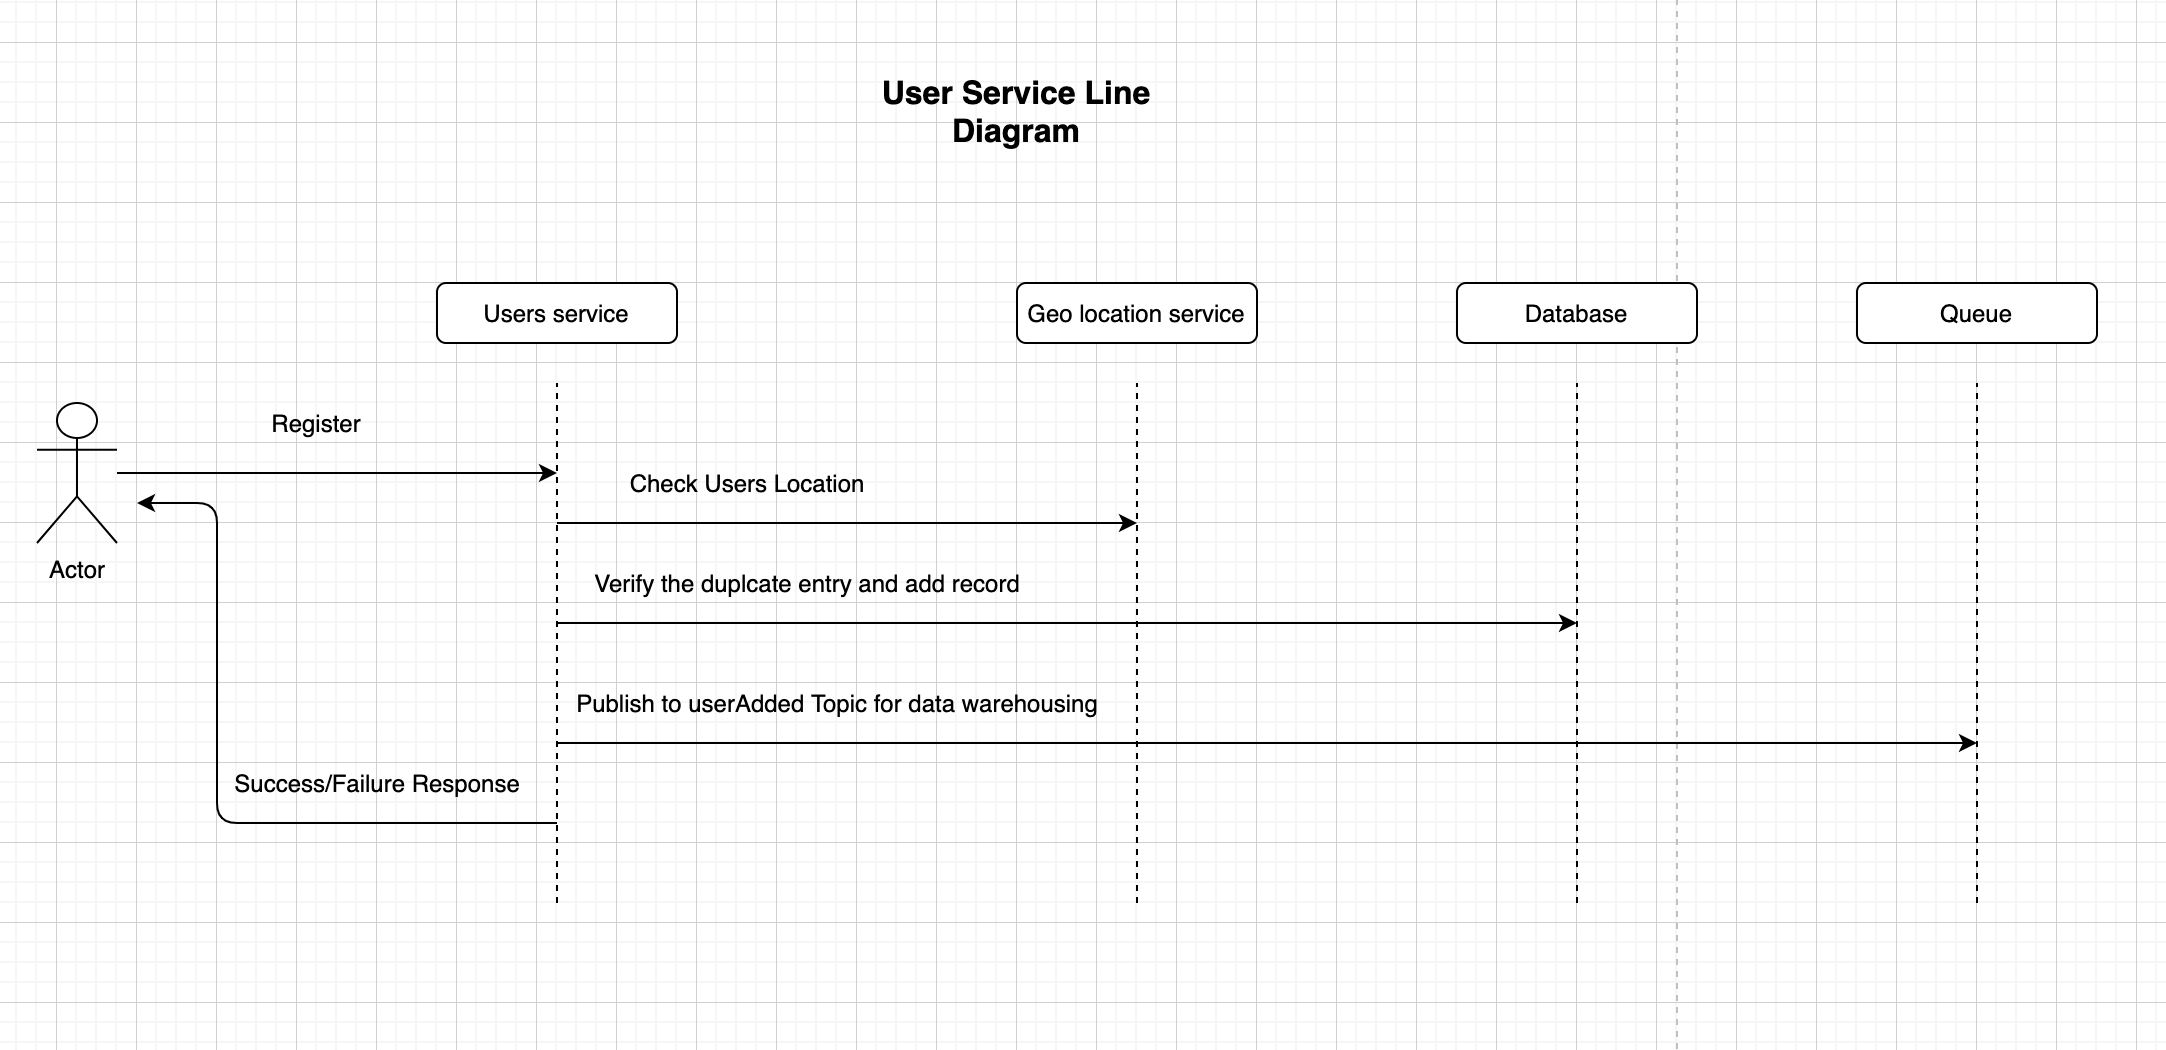
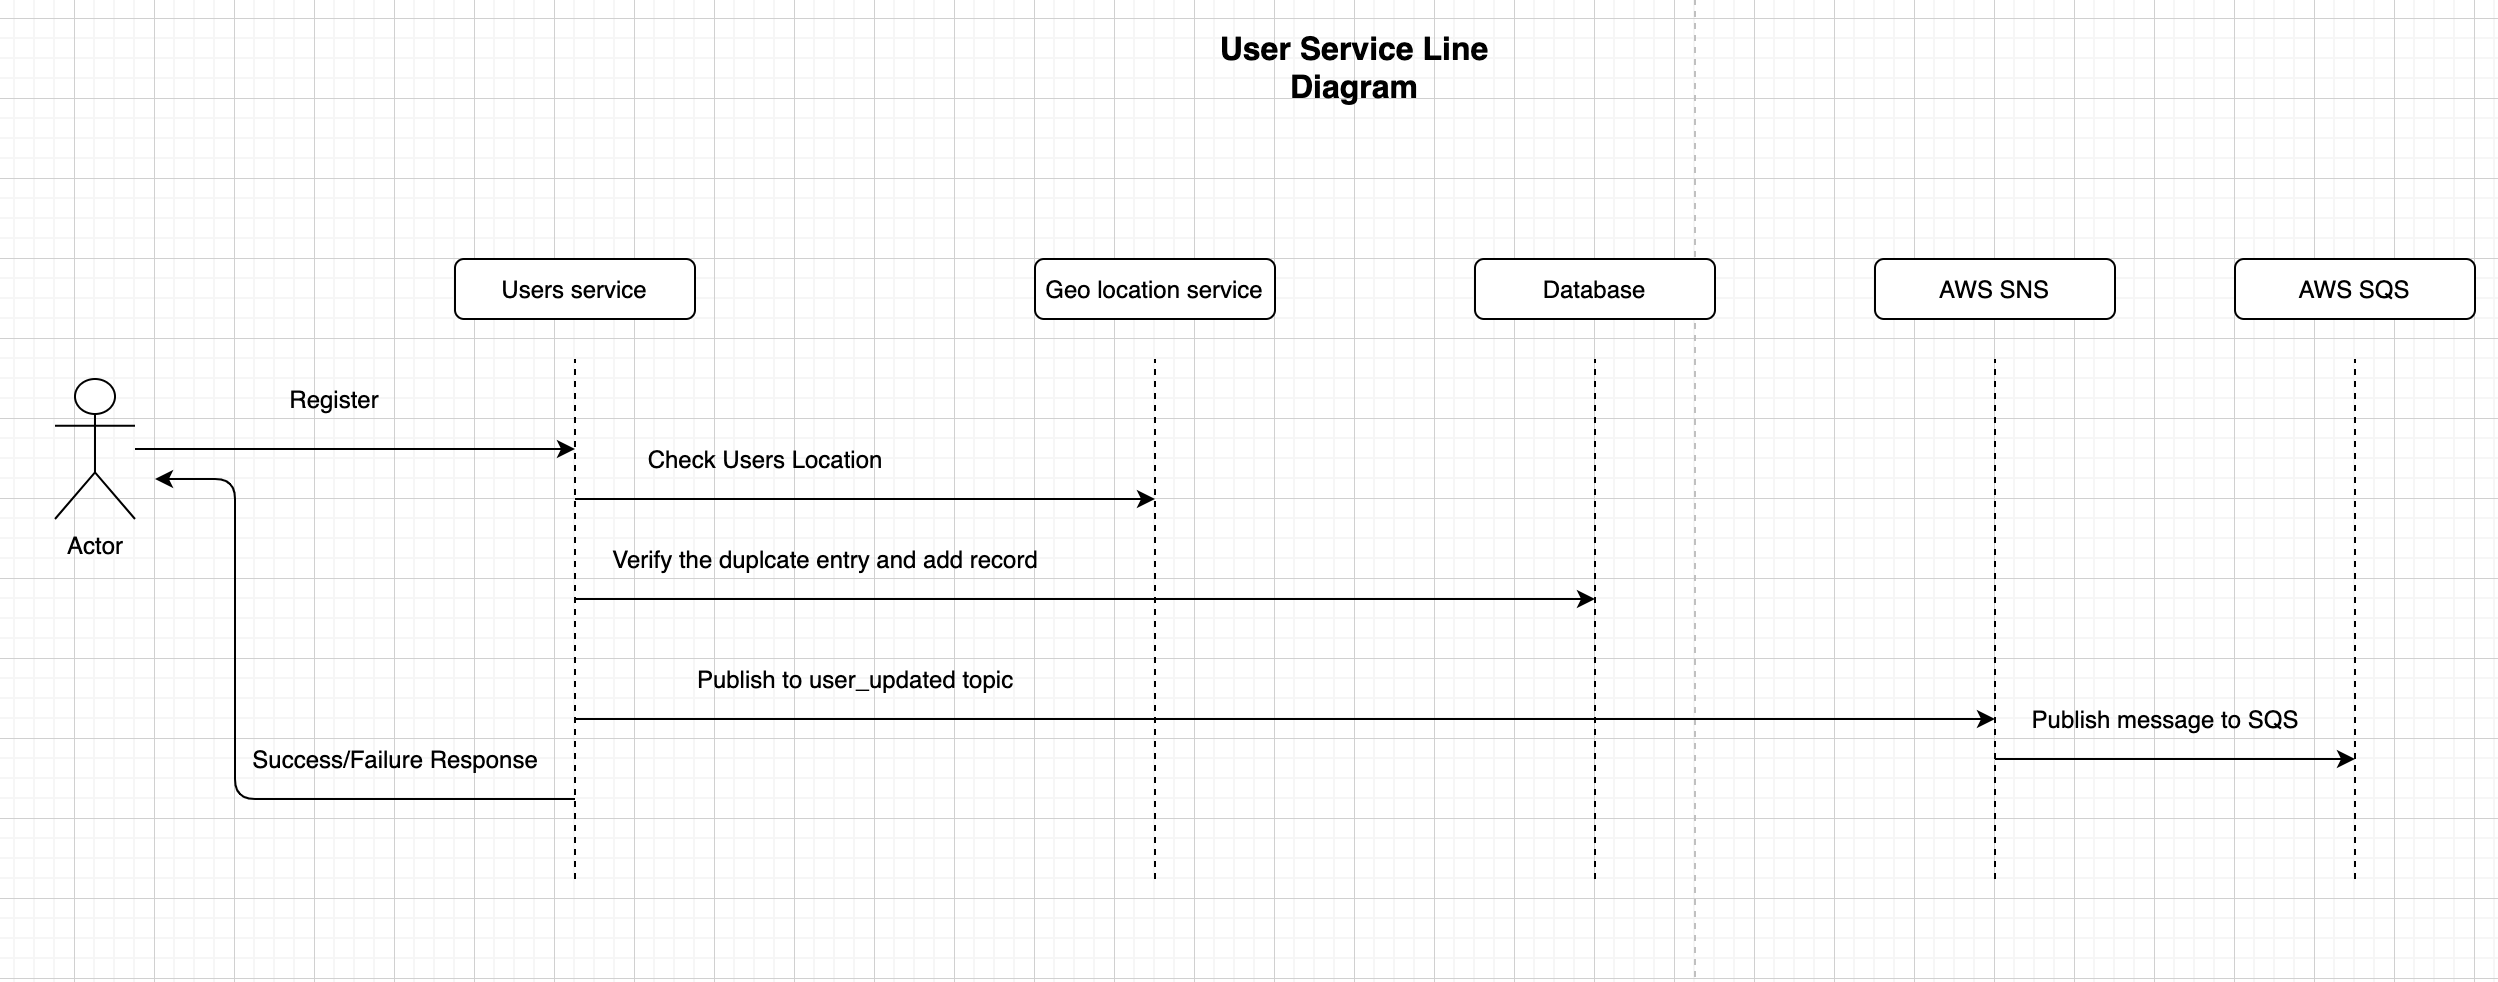
Added message broadcaster

diff --git a/src/sns/sns.service.ts b/src/sns/sns.service.ts
@@ -1,0 +1,44 @@
+import { ConfigurationOptions } from "aws-sdk/lib/config";
+import { HttpException, HttpStatus, Inject, Injectable } from "@nestjs/common";
+import { PublishInput, PublishResponse } from "aws-sdk/clients/sns";
+import { SNS } from "aws-sdk";
+
+import { CONFIG_CONNECTION_OPTIONS } from "./sns.constant";
+
+/**
+ * @export
+ * @class AwsSnsService
+ */
+@Injectable()
+export class AwsSnsService {
+  private readonly _sns: SNS;
+  constructor(@Inject(CONFIG_CONNECTION_OPTIONS) private _options: ConfigurationOptions) {
+    this._sns = new SNS(this._options);
+  }
+
+  // eslint-disable-next-line @typescript-eslint/explicit-module-boundary-types
+  async sendToQueue(options: PublishInput) {
+    return this._sns
+      .publish(options)
+      .promise()
+      .then((info: PublishResponse) => {
+        return [
+          {
+            statusCode: HttpStatus.OK,
+            message: "Sms sent",
+            data: info,
+          },
+        ];
+      })
+      .catch(err => {
+        throw new HttpException(
+          {
+            statusCode: HttpStatus.BAD_REQUEST,
+            message: "Failed to send",
+            data: err,
+          },
+          HttpStatus.BAD_REQUEST,
+        );
+      });
+  }
+}

diff --git a/src/sns/sns.module.ts b/src/sns/sns.module.ts
@@ -1,0 +1,27 @@
+import { DynamicModule, Module } from "@nestjs/common";
+
+import { AwsSnsService } from "./sns.service";
+import { CONFIG_CONNECTION_OPTIONS } from "./sns.constant";
+import { ISNSModuleAsyncOptions } from "./sns.interface";
+
+/**
+ * @export
+ * @class SnsModule
+ */
+@Module({})
+export class SnsModule {
+  static forRootSnsAsync(options: ISNSModuleAsyncOptions): DynamicModule {
+    return {
+      module: SnsModule,
+      providers: [
+        {
+          provide: CONFIG_CONNECTION_OPTIONS,
+          useFactory: options.useFactory,
+          inject: options.inject || [],
+        },
+        AwsSnsService,
+      ],
+      exports: [AwsSnsService],
+    };
+  }
+}

diff --git a/src/sns/sns.interface.ts b/src/sns/sns.interface.ts
@@ -1,0 +1,11 @@
+import { ConfigurationOptions } from "aws-sdk/lib/config";
+import { ModuleMetadata } from "@nestjs/common/interfaces";
+/**
+ *  @export
+ * @interface ISNSModuleAsyncOptions
+ * @extends {Pick<ModuleMetadata, 'imports'>}
+ */
+export interface ISNSModuleAsyncOptions extends Pick<ModuleMetadata, "imports"> {
+  useFactory: (...args: any[]) => Promise<ConfigurationOptions> | ConfigurationOptions;
+  inject?: any[];
+}

diff --git a/src/sns/sns.constant.ts b/src/sns/sns.constant.ts
@@ -1,0 +1,1 @@
+export const CONFIG_CONNECTION_OPTIONS = "CONFIG_CONNECTION_OPTIONS";
